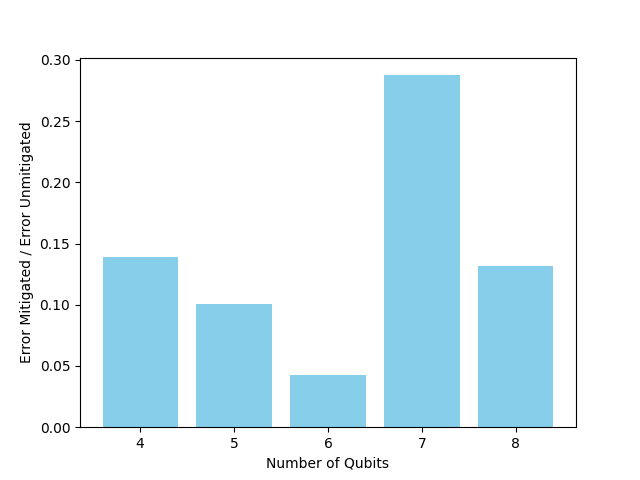
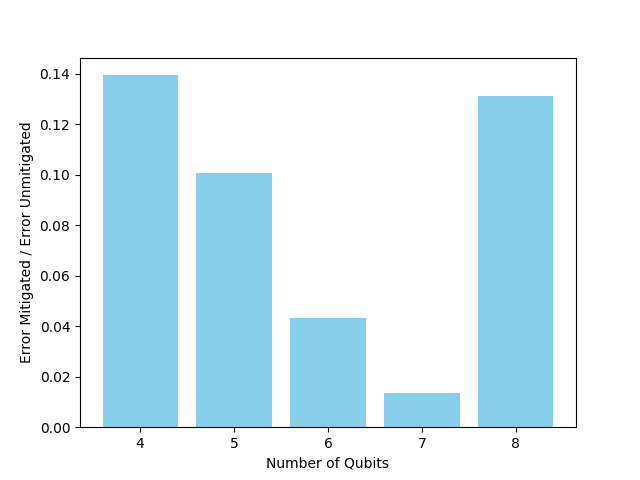
update

diff --git a/RNN.py b/RNN.py
@@ -23,7 +23,7 @@ batch_num = 30
 batch_num_test = 10
 size = 128 #batch size
 shots = 8192 #sampling shots
-num_qubits = 7
+num_qubits = 6
 depth = 10
 max_operands = 2
 prob_one = 6.5*1e-4
@@ -137,8 +137,8 @@ if __name__ == '__main__':
     
     else:
         model_a = QEM(num_qubits).to(device)
-        #model_a.load_state_dict(torch.load('./trained/model_parameters_7.pkl'))
-        model_a.load_state_dict(torch.load('./model7/model_parameters_epoch4800.pkl'))
+        model_a.load_state_dict(torch.load('./trained/model_parameters_7.pkl'))
+        #model_a.load_state_dict(torch.load('./model7/model_parameters_epoch4800.pkl'))
 
         loss, loss2 = test(model_a, training)
         print(loss, loss2)

diff --git a/pic/diff_n_rate.py b/pic/diff_n_rate.py
@@ -2,8 +2,8 @@ import torch
 import numpy as np
 import matplotlib.pyplot as plt
 
-mitigated = [0.003890975824826187,0.0011680859979919334,0.0003599496867570662,0.0005715780685018803,0.002667532265400907]
-noisy = [0.02792040305554322,0.011623957833124445,0.008363536876754233,0.0019881656267438535,0.020315605618278394]
+mitigated = [0.003890975824826187,0.0011680859979919334,0.0003599496867570662,9.176781774058537e-05,0.002667532265400907]
+noisy = [0.02792040305554322,0.011623957833124445,0.008363536876754233,0.0067634257363564584,0.020315605618278394]
 ratio = []
 
 for a,b in zip(mitigated, noisy):
